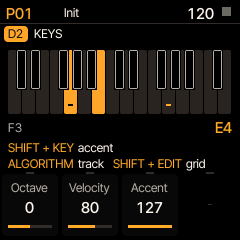
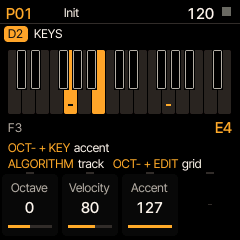
1.5-rc1: staging build (about screen v1.5-rc1), the 1.5 card in the site's updates (in testing)

Changed region(s): [[0.0292, 0.5833, 0.4667, 0.6417], [0.4667, 0.6417, 0.875, 0.7292]]

diff --git a/web/index.html b/web/index.html
@@ -564,6 +564,23 @@
   <section class="band" id="updates">
     <div class="intro"><h2>Updates</h2><p>What each release added and fixed.</p></div>
     <div class="updates">
+      <div class="card"><h3>1.5<span>In testing</span></h3>
+        <p>Start new projects, a lighter load on the processor, and clearer hints on screen. Projects, kits and
+          settings from 1.4 work as before.</p>
+        <ul>
+          <li><b>New projects.</b> On LOAD &rarr; PROJECT, pick an empty slot and press OCT+. Elixir starts a fresh
+            project (Init kits, empty patterns) and saves it to that slot, named after it (PROJECT2 in slot 2).</li>
+          <li><b>Asks before you lose changes.</b> Loading a project or starting a new one asks <b>SAVE THEM
+            FIRST?</b> when what you're playing has changed: OCT+ saves, then loads; OCT&minus; loads without saving;
+            any other button cancels. Autosave still keeps your session through power-off, as before.</li>
+          <li><b>More room before CPU OVERLOAD.</b> The control code that runs once per block (the sequencer, the
+            performance keys, the global LFOs) now runs from the processor's fast memory, and mixing the six voices
+            takes less work. In a busy test project the first core's load fell from about 73% to about 61%.</li>
+          <li><b>Clearer hints.</b> The screen names the buttons as they're printed: hold OCT&minus;, press OCT+
+            to delete, instead of SHIFT, COPY and CLEAR. The save and load pages say what OCT+ does and where SAVE
+            takes you.</li>
+        </ul>
+      </div>
       <div class="card"><h3>1.4.7<span>November 19, 2026</span></h3>
         <p>Steadier MIDI clock sync. Projects, kits and settings from 1.4 work as before.</p>
         <ul>

diff --git a/firmware/src/elixir.c b/firmware/src/elixir.c
@@ -5,7 +5,7 @@
  * or supported by Erica Synths or M-VAVE.
  * One compilation unit (the HAL is header-only); each file uses what the files above it define. */
 #ifndef ELIXIR_VERSION
-#define ELIXIR_VERSION "v1.4.7"
+#define ELIXIR_VERSION "v1.5-rc1"
 #endif
 #define FELUCCA_FLASH 1
 #define FELUCCA_OTA 1
